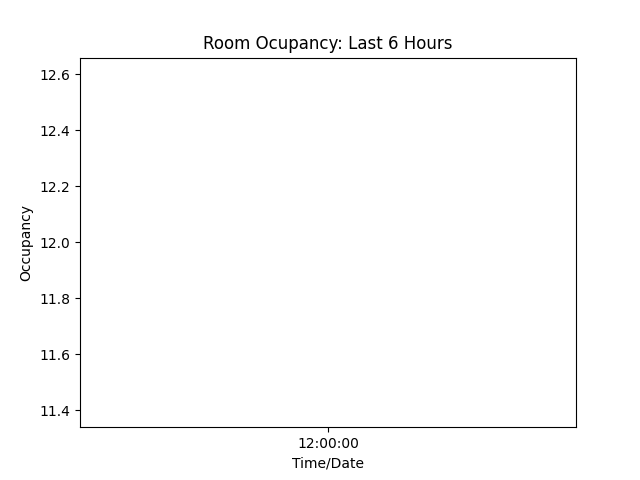
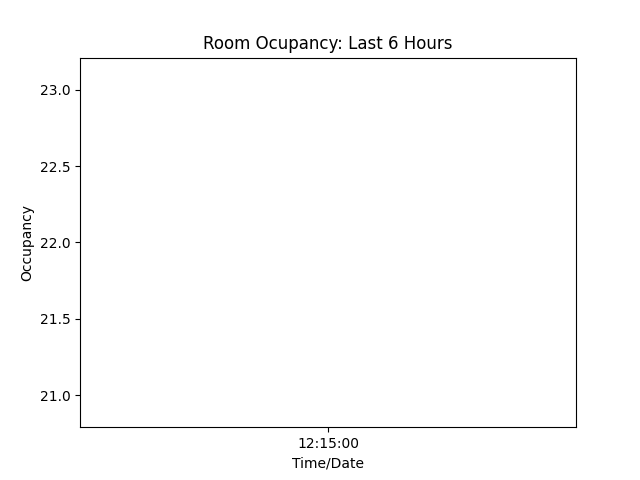
Changed the way data is grabbed from DB

diff --git a/getDataFromMDB.py b/getDataFromMDB.py
@@ -17,16 +17,22 @@ ttp_col = db['TTP']
 # *NOTE: need to limit to only last 24 entries to reflect last 6 hours*
 ttp_df = pd.DataFrame(ttp_col.find())
 ttp_df = ttp_df[len(ttp_df)-24:]
+ttp_df = ttp_df.iloc[::-1]
 ttp_df = ttp_df.iloc[::4, :]
+ttp_df = ttp_df.iloc[::-1]
 
 
 orbach_df = pd.DataFrame(orbach_col.find())
 orbach_df = orbach_df[len(orbach_df)-24:]
+orbach_df = orbach_df.iloc[::-1]
 orbach_df = orbach_df.iloc[::4, :]
+orbach_df = orbach_df.iloc[::-1]
 
 bytes_df = pd.DataFrame(bytes_col.find())
 bytes_df = bytes_df[len(bytes_df)-24:]
+bytes_df = bytes_df.iloc[::-1]
 bytes_df = bytes_df.iloc[::4, :]
+bytes_df = bytes_df.iloc[::-1]
 
 # adding rooms to a list
 rooms = [ttp_df, orbach_df, bytes_df]
